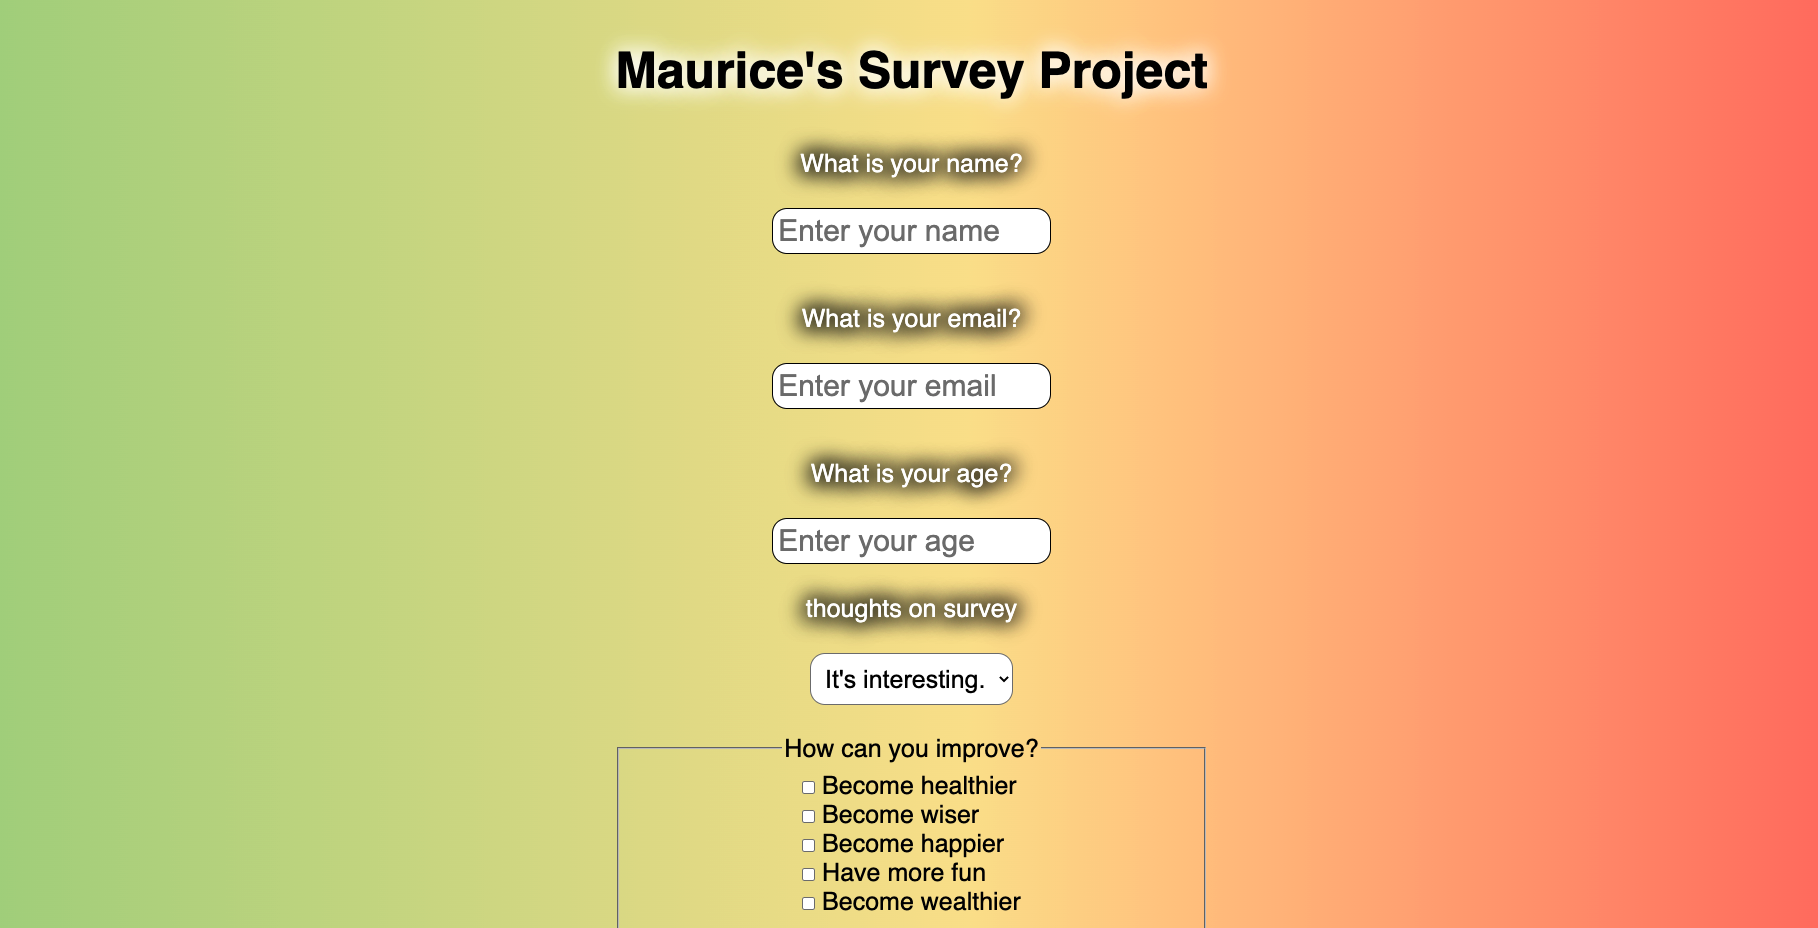
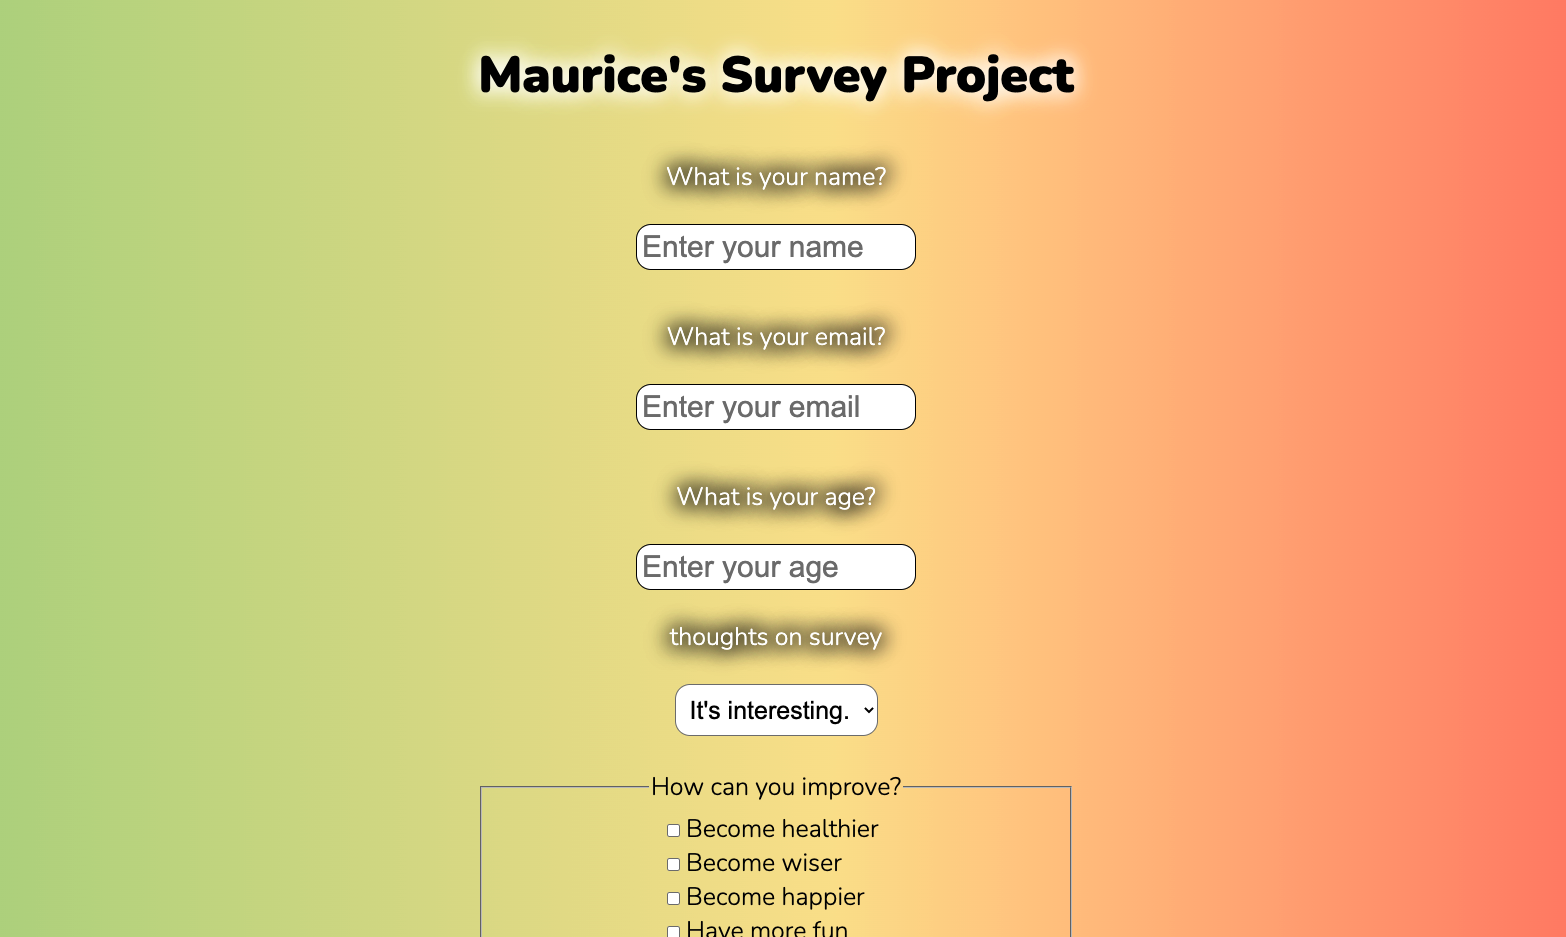
Changed Font and Thumbnail

Changed region(s): [[0.2759, 0.0312, 0.705, 1.0], [0.3372, 0.8125, 0.3678, 0.8438]]

diff --git a/survey0/survey.css b/survey0/survey.css
@@ -2,6 +2,7 @@ html{
     font-size: 10px;
   }
   body {
+    font-family: 'Nunito', sans-serif;
     background: linear-gradient(90deg, rgba(166,207,112,0.9154849439775911) 0%, rgba(246,222,122,0.8818714985994398) 53%, rgba(255,22,0,0.6157650560224089) 100%);
     font-size: 2.5rem;
     color: black;
@@ -9,7 +10,6 @@ html{
     flex-direction: column;
     justify-content: center;
     align-items: center;
-    font-family: Helvetica, sans-serif;
   }
   .message{
       display: none;

diff --git a/survey0/survey.html b/survey0/survey.html
@@ -5,6 +5,7 @@
     <meta http-equiv="X-UA-Compatible" content="IE=edge,chrome=1">
     <meta name="viewport" content="width=device-width, initial-scale=1.0">
     <meta name="description" content="My freeCodeCamp survey project">
+    <link href="https://fonts.googleapis.com/css2?family=Nunito:wght@200;300;600;900&display=swap" rel="stylesheet">
     <meta name="author" content="Maurice Rogers">
     <title>Survey Project</title>
     <link rel="stylesheet" href="survey.css">
